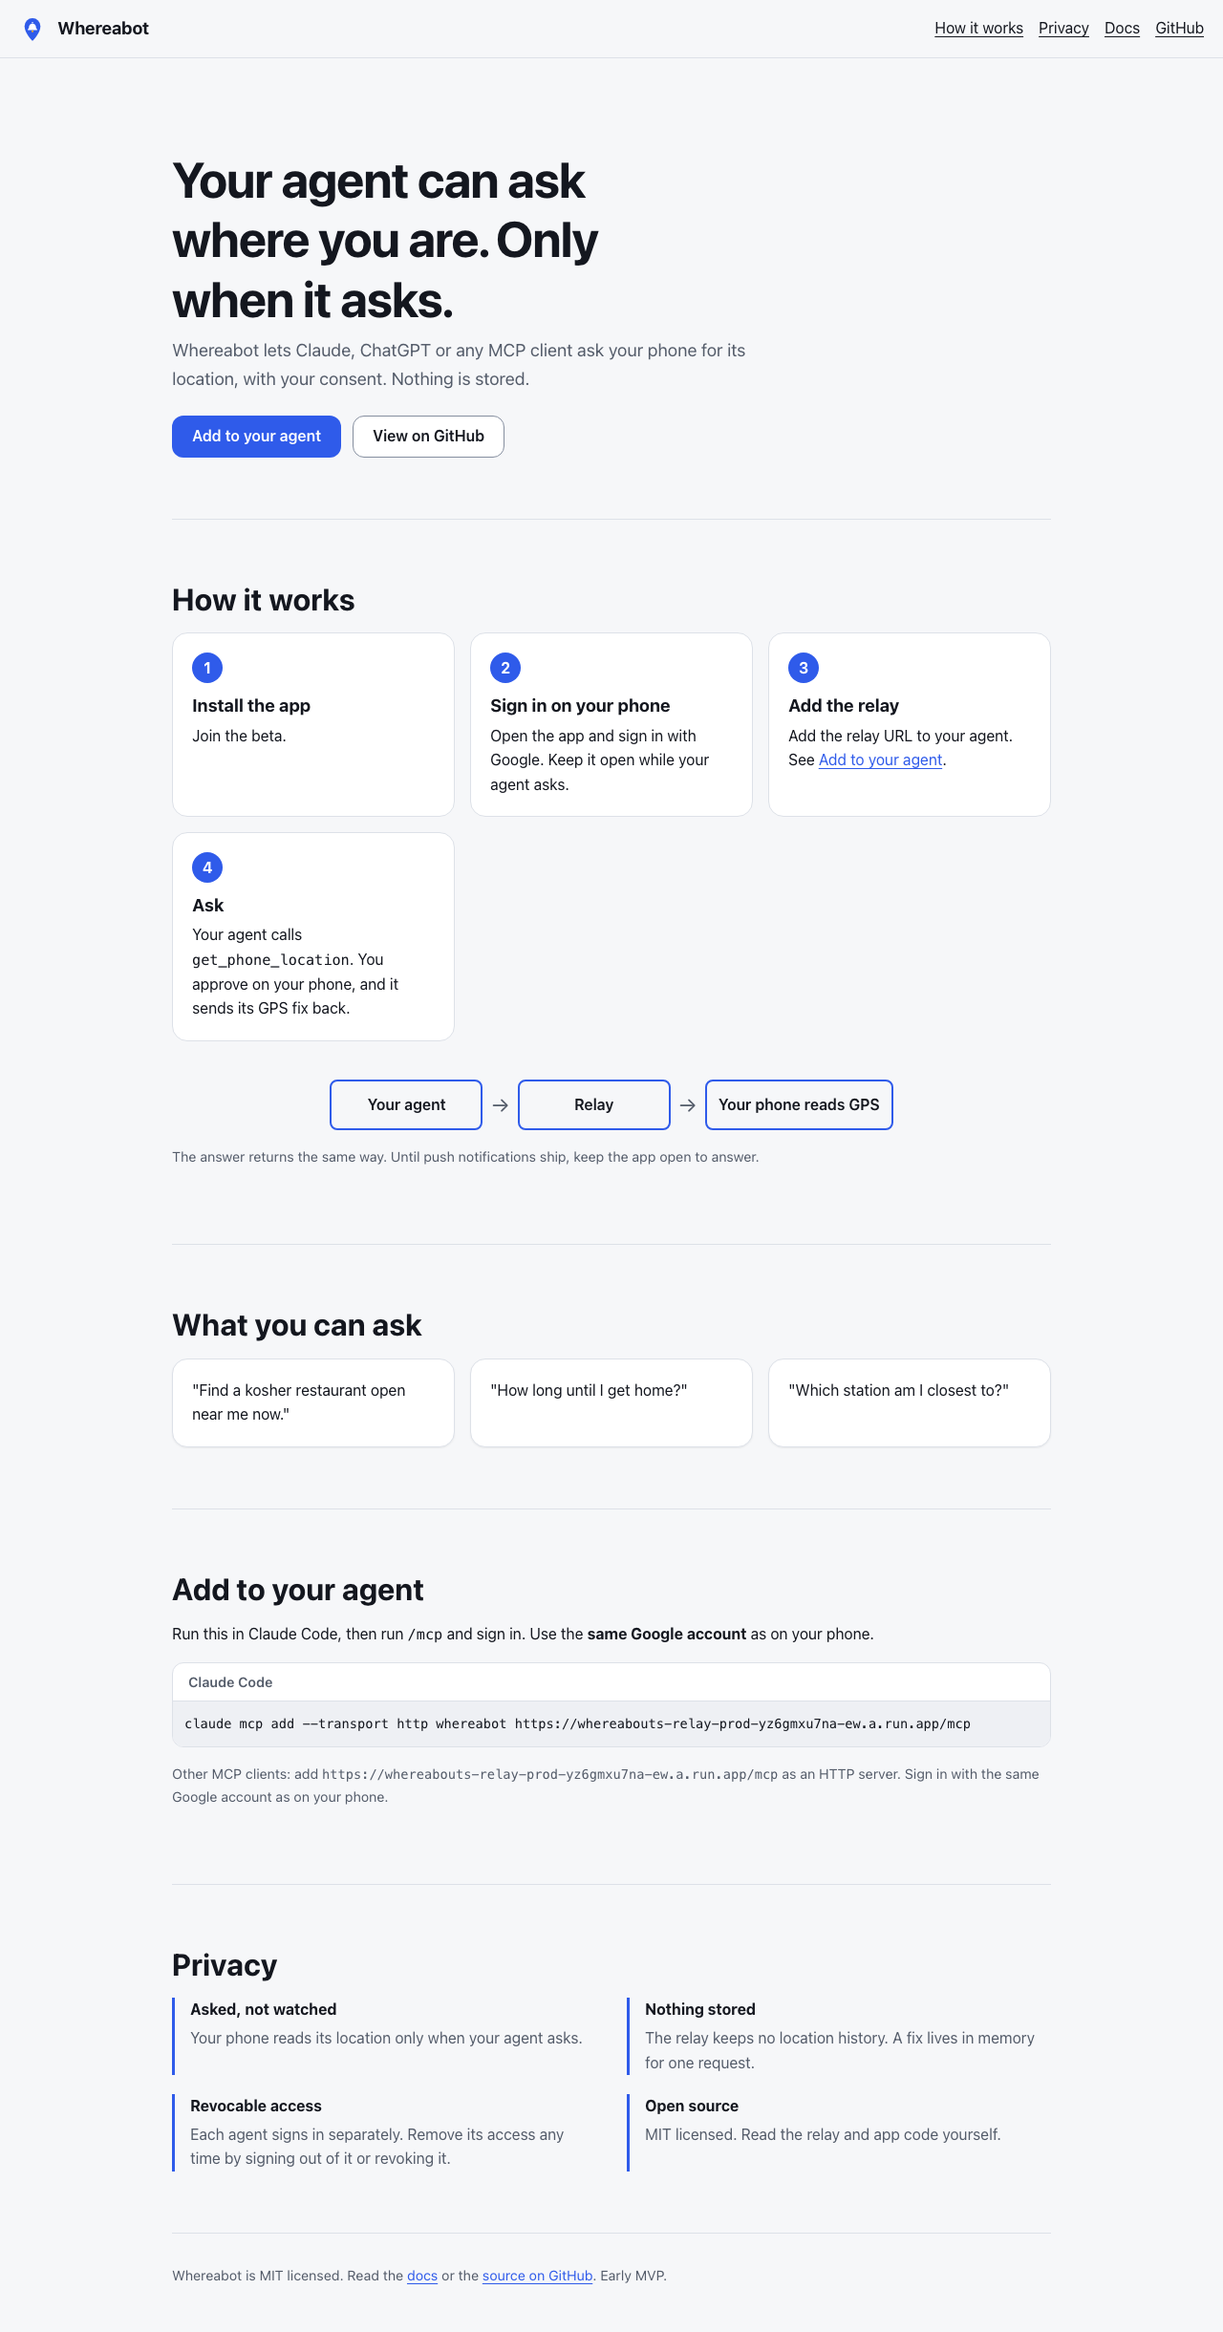
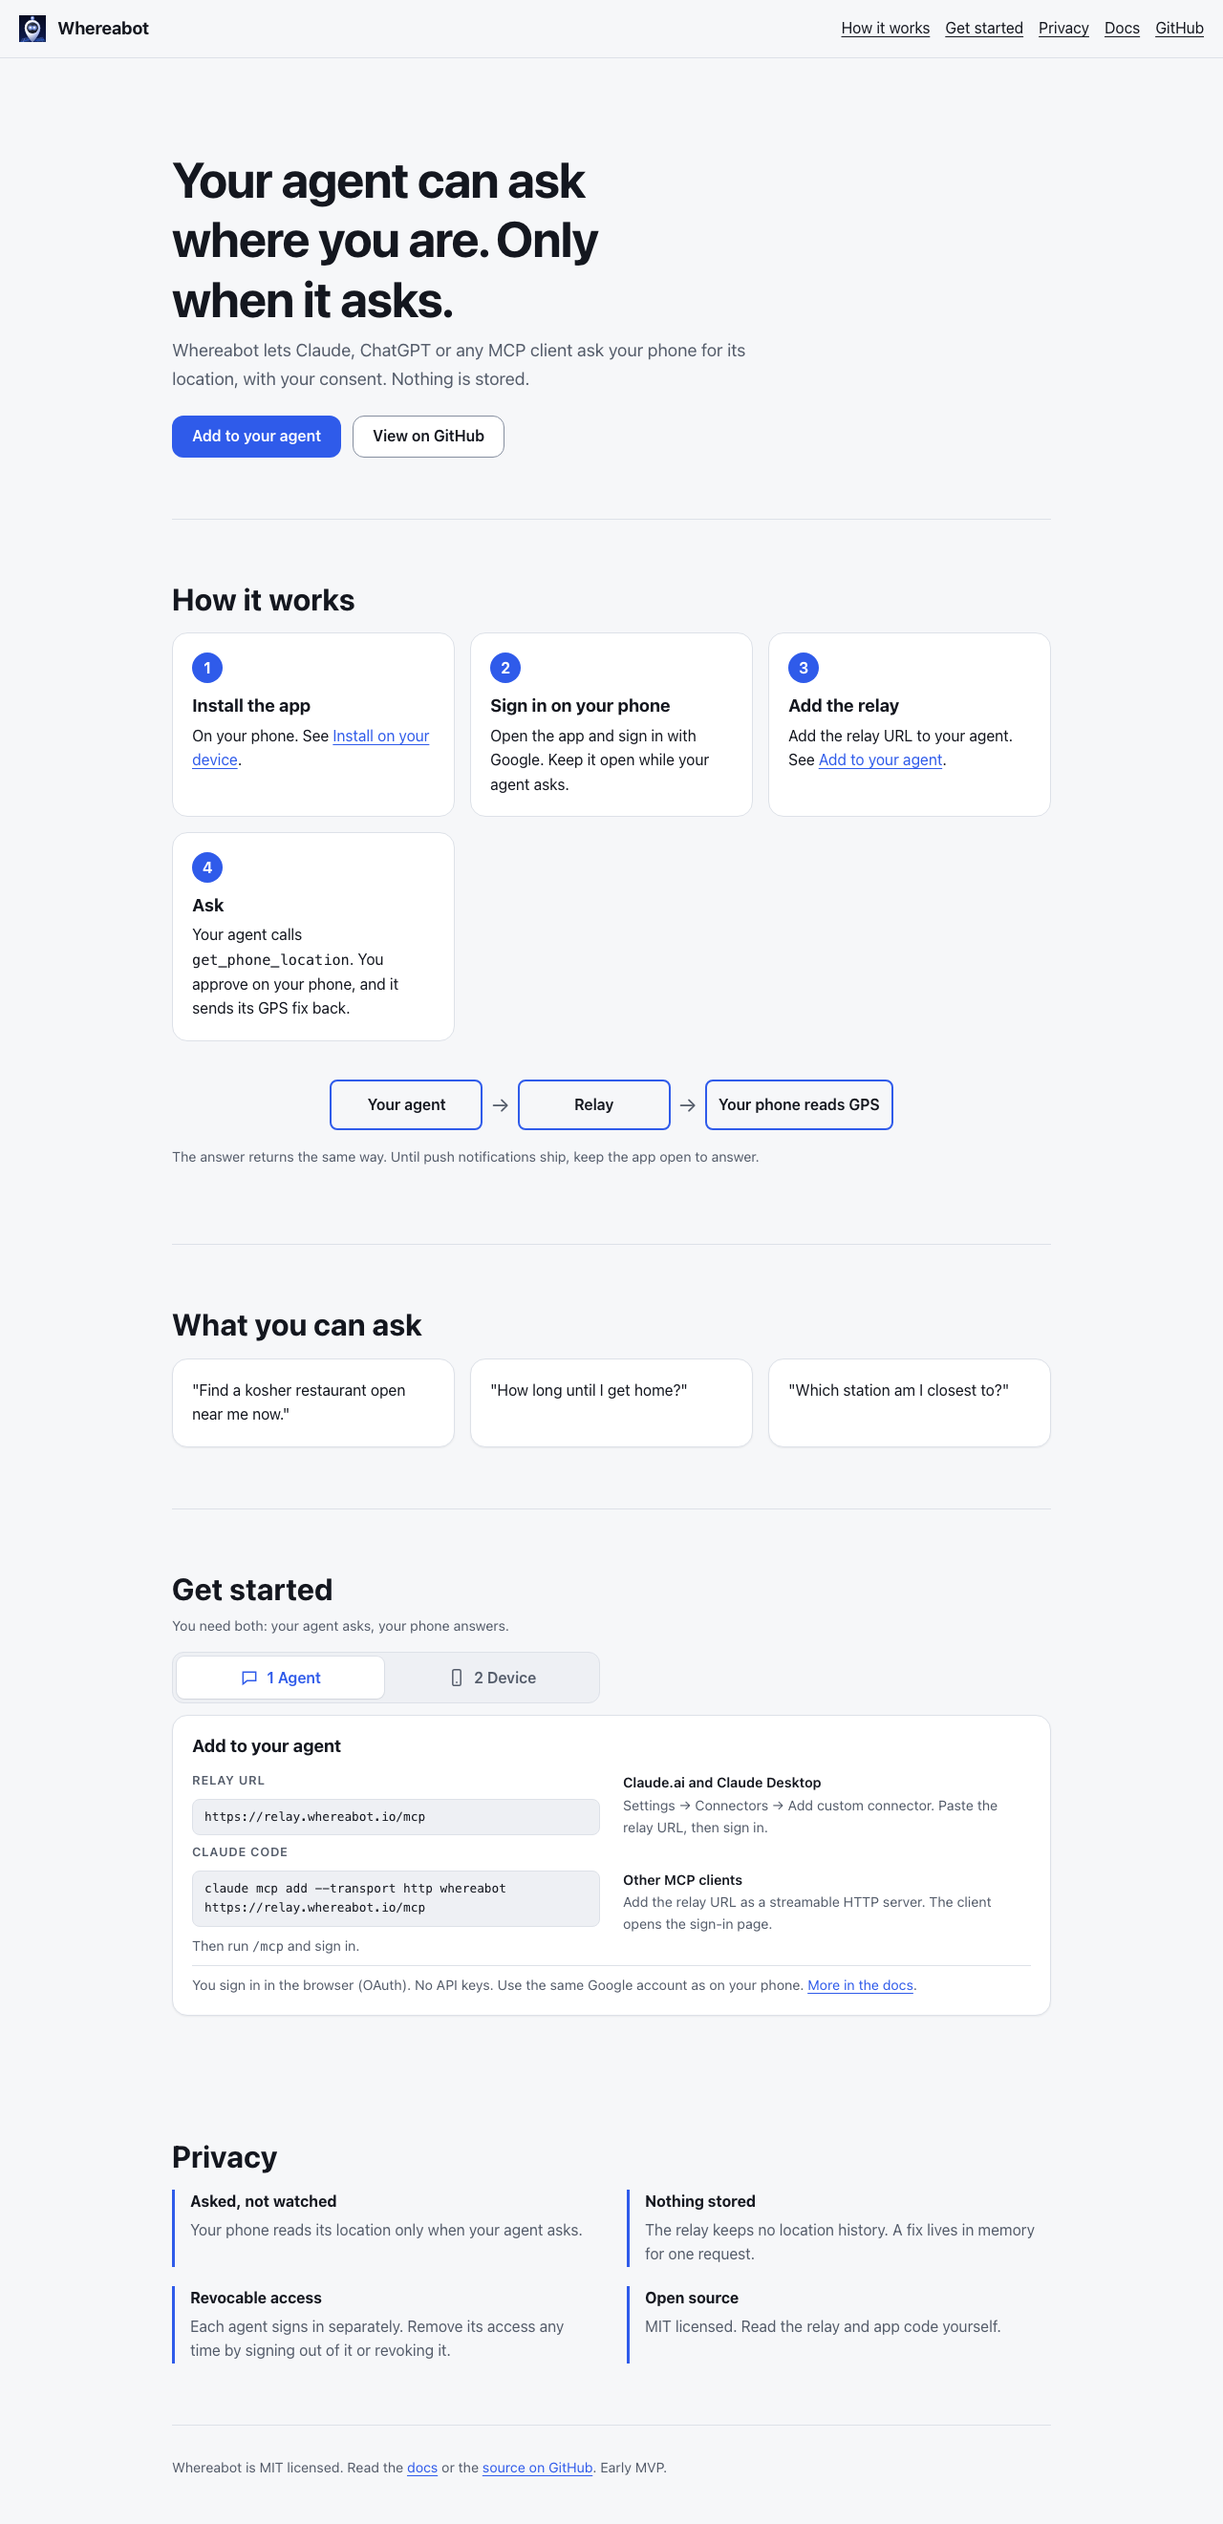
feat(site): Get started as Agent | Device tabs with device auto-detect
Default tab follows the device (phone -> Device, computer -> Agent). The
Device tab shows only this device's install path; Other devices reveals
the rest. Accessible tabs with arrow keys; no-JS shows both panels.
Smoke test covers default tab per UA, keyboard, and one-screen fit.

diff --git a/site/index.html b/site/index.html
@@ -19,6 +19,8 @@
   <link rel="stylesheet" href="css/landing-page.css">
   <script type="module" src="js/copy-buttons.js"></script>
   <script type="module" src="js/landing-install-help.js"></script>
+  <script type="module" src="js/get-started-tabs.js"></script>
+  <script type="module" src="js/device-path-filter.js"></script>
 </head>
 <body>
 <a class="skip-link" href="#main">Skip to content</a>
@@ -62,27 +64,25 @@
   <section id="start" aria-labelledby="start-title">
     <h2 id="start-title">Get started</h2>
     <p class="lede">You need both: your agent asks, your phone answers.</p>
-    <div class="split">
-      <div class="card" id="agent">
-        <h3>1. Add to your agent</h3>
-        <p>Relay URL:</p><code class="code-block" data-copy>https://relay.whereabot.io/mcp</code>
-        <dl class="client-steps">
-          <div><dt>Claude Code</dt><dd><code class="code-block" data-copy>claude mcp add --transport http whereabot https://relay.whereabot.io/mcp</code>Then run <code>/mcp</code> and sign in.</dd></div>
-          <div><dt>Claude.ai and Claude Desktop</dt><dd>Settings → Connectors → Add custom connector. Paste the relay URL, then sign in.</dd></div>
-          <div><dt>Other MCP clients</dt><dd>Add the relay URL as a streamable HTTP server. The client opens the sign-in page.</dd></div>
-        </dl>
-        <p class="note">You sign in in the browser (OAuth). No API keys. Use the same Google account as on your phone. <a href="docs/getting-started">More in the docs</a>.</p>
+    <div class="tabs" role="tablist" aria-label="Get started" hidden>
+      <button type="button" role="tab" id="tab-agent" aria-controls="agent"><svg viewBox="0 0 24 24" aria-hidden="true"><path d="M4 5h16v11H9l-5 4z"/></svg>1 Agent</button>
+      <button type="button" role="tab" id="tab-device" aria-controls="get-app"><svg viewBox="0 0 24 24" aria-hidden="true"><rect x="7" y="2" width="10" height="20" rx="2"/><path d="M11 18h2"/></svg>2 Device</button></div>
+    <div class="tab-panels"><div class="card" id="agent"><h3>Add to your agent</h3>
+        <div class="panel-cols"><div><p class="card-label">Relay URL</p><div class="copy-row"><code class="code-block" data-copy>https://relay.whereabot.io/mcp</code></div>
+          <p class="card-label">Claude Code</p><div class="copy-row"><code class="code-block" data-copy>claude mcp add --transport http whereabot https://relay.whereabot.io/mcp</code></div><p class="note">Then run <code>/mcp</code> and sign in.</p></div>
+          <dl class="client-steps"><div><dt>Claude.ai and Claude Desktop</dt><dd>Settings → Connectors → Add custom connector. Paste the relay URL, then sign in.</dd></div>
+            <div><dt>Other MCP clients</dt><dd>Add the relay URL as a streamable HTTP server. The client opens the sign-in page.</dd></div></dl></div>
+        <p class="note panel-foot">You sign in in the browser (OAuth). No API keys. Use the same Google account as on your phone. <a href="docs/getting-started">More in the docs</a>.</p>
       </div>
-      <div class="card" id="get-app">
-        <h3>2. Install on your device</h3>
-        <ul class="install-options">
-          <li><strong>App Store (iPhone)</strong> <span class="badge is-accent">Recommended</span><br>Answers in the background. In beta. <!-- TODO(user): link the public TestFlight / App Store listing when it exists. --></li>
-          <li><strong>Google Play</strong> <span class="badge">Coming soon</span></li>
-          <li><strong>Use in your browser</strong><br>Answers after you tap the notification. <a class="btn btn-primary" href="app/">Open the browser app</a></li>
-        </ul>
-        <div id="install-help"></div><p class="note"><a href="docs/install-from-browser">Install from the browser</a>: steps and limits.</p>
-      </div>
-    </div>
+      <div class="card" id="get-app"><h3>Install on your device</h3>
+        <div class="panel-cols"><ul class="install-options">
+          <li data-platform="ios"><strong>App Store (iPhone)</strong> <span class="badge is-accent">Recommended</span><br>Answers in the background. In beta. <!-- TODO(user): link the public TestFlight / App Store listing when it exists. --></li>
+          <li data-platform="android"><strong>Google Play</strong> <span class="badge">Coming soon</span></li>
+          <li data-platform="desktop">On your phone, open <strong>whereabot.io/app</strong> in the browser.</li>
+          <li data-platform="ios android desktop"><strong>Use in your browser</strong><br>Answers after you tap the notification. <a class="btn btn-primary btn-small" href="app/">Open the browser app</a></li>
+        </ul><div><details><summary>How to install from the browser</summary><div id="install-help"></div>
+          <p class="note"><a href="docs/install-from-browser">Install from the browser</a>: steps and limits.</p></details><button type="button" class="btn btn-link other-devices" aria-expanded="false" hidden>Other devices</button></div></div>
+      </div></div>
   </section>
   <section id="privacy" aria-labelledby="privacy-title">
     <h2 id="privacy-title">Privacy</h2>

diff --git a/site/css/get-started-tabs.css b/site/css/get-started-tabs.css
@@ -1,0 +1,72 @@
+/* Get started: "Agent | Device" tabs (js/get-started-tabs.js). The section fits one screen in each tab.
+   Without JS the tab list stays hidden and both panels show side by side (stacked on phones). */
+#start { border-bottom: 0; }
+#start h2 { margin-bottom: var(--space-2); }
+#start .lede { margin-bottom: var(--space-4); }
+#start .card p { margin-bottom: 0; }
+
+.tabs {
+  display: grid;
+  grid-template-columns: 1fr 1fr;
+  gap: var(--space-1);
+  max-width: 28rem;
+  margin-bottom: var(--space-3);
+  padding: var(--space-1);
+  border: var(--border-thin) solid var(--color-border);
+  border-radius: var(--radius-md);
+  background: var(--color-surface-sunken);
+}
+.tabs [role="tab"] {
+  display: flex;
+  align-items: center;
+  justify-content: center;
+  gap: var(--space-2);
+  min-height: var(--size-touch);
+  border: 0;
+  border-radius: var(--radius-sm);
+  background: transparent;
+  color: var(--color-text-muted);
+  font: inherit;
+  font-weight: var(--weight-semibold);
+  cursor: pointer;
+}
+.tabs svg {
+  width: var(--size-icon);
+  height: var(--size-icon);
+  fill: none;
+  stroke: currentColor;
+  stroke-width: 1.8;
+}
+.tabs [aria-selected="true"] {
+  background: var(--color-surface);
+  color: var(--color-accent-text);
+  box-shadow: var(--shadow-raised), 0 0 0 var(--border-thin) var(--color-border);
+}
+
+.tab-panels {
+  display: grid;
+  grid-template-columns: repeat(auto-fit, minmax(min(100%, 22rem), 1fr));
+  gap: var(--space-4);
+}
+.tab-panels > [role="tabpanel"] { grid-column: 1 / -1; }
+.panel-cols {
+  display: grid;
+  grid-template-columns: repeat(auto-fit, minmax(min(100%, 22rem), 1fr));
+  gap: var(--space-3) var(--space-6);
+}
+.panel-cols > div { display: flex; flex-direction: column; gap: var(--space-2); }
+.panel-foot { padding-top: var(--space-2); border-top: var(--border-thin) solid var(--color-border); }
+
+.client-steps { display: grid; gap: var(--space-2); margin: 0; font-size: var(--text-sm); }
+.client-steps dt { font-weight: var(--weight-semibold); }
+.client-steps dd { margin: 0; color: var(--color-text-muted); }
+
+/* Copy button (js/copy-buttons.js) beside its command; small mono text so commands wrap less. */
+.copy-row { display: flex; align-items: center; gap: var(--space-2); }
+.copy-row .code-block { flex: 1; min-width: 0; padding: var(--space-2) var(--space-3); font-size: var(--text-xs); }
+.copy-row .copy-button { flex: none; padding-inline: var(--space-3); }
+
+@media (max-width: 49.99rem) {
+  #start { padding-block: var(--space-8); }
+  #start .card { padding: var(--space-4); }
+}

diff --git a/site/js/get-started-tabs.js b/site/js/get-started-tabs.js
@@ -1,0 +1,41 @@
+// Get started: "Agent | Device" tabs. The default tab follows the device: phones see Device, computers see Agent.
+// Without JS the tab list stays hidden and both panels show.
+import { phoneLike } from "./device-platform.js";
+
+const list = document.querySelector('#start [role="tablist"]');
+const tabs = [...(list?.querySelectorAll('[role="tab"]') ?? [])];
+const panelOf = (tab) => document.getElementById(tab.getAttribute("aria-controls"));
+
+function select(tab, focus = false) {
+  for (const t of tabs) {
+    const on = t === tab;
+    t.setAttribute("aria-selected", String(on));
+    t.tabIndex = on ? 0 : -1;
+    panelOf(t).hidden = !on;
+  }
+  if (focus) tab.focus();
+}
+
+if (tabs.length) {
+  for (const [i, tab] of tabs.entries()) {
+    const panel = panelOf(tab);
+    panel.setAttribute("role", "tabpanel");
+    panel.setAttribute("aria-labelledby", tab.id);
+    panel.tabIndex = 0;
+    tab.addEventListener("click", () => select(tab));
+    tab.addEventListener("keydown", (event) => {
+      const next = { ArrowRight: i + 1, ArrowLeft: i - 1, Home: 0, End: tabs.length - 1 }[event.key];
+      if (next === undefined) return;
+      event.preventDefault();
+      select(tabs[(next + tabs.length) % tabs.length], true);
+    });
+  }
+  // In-page links (#agent, #get-app) open their tab first; the browser then scrolls to it.
+  const tabFor = (hash) => tabs.find((t) => `#${t.getAttribute("aria-controls")}` === hash);
+  document.addEventListener("click", (event) => {
+    const tab = tabFor(event.target.closest?.('a[href^="#"]')?.hash);
+    if (tab) select(tab);
+  });
+  select(tabFor(location.hash) ?? tabs[phoneLike ? 1 : 0]);
+  list.hidden = false;
+}

diff --git a/site/js/landing-install-help.js b/site/js/landing-install-help.js
@@ -1,9 +1,6 @@
 // Landing: install steps for the browser app (/app/) that match this device.
 // Inside /app/ the same help comes from app/src/ui/pwa-limits-notice.ts.
-const ua = navigator.userAgent;
-// iPadOS 13+ reports a Mac user agent; touch points tell it apart.
-const ios = /iPhone|iPad|iPod/.test(ua) || (/Macintosh/.test(ua) && navigator.maxTouchPoints > 1);
-const iosSafari = ios && !/CriOS|FxiOS|EdgiOS|OPiOS|GSA\//.test(ua);
+import { android, ios, iosSafari } from "./device-platform.js";
 
 const SHARE_ICON = '<svg viewBox="0 0 24 24" fill="none" stroke="currentColor" stroke-width="2" aria-hidden="true"><path d="M12 15V3m0 0L8 7m4-4 4 4M6 11H5v10h14V11h-1"/></svg>';
 const ADD_ICON = '<svg viewBox="0 0 24 24" fill="none" stroke="currentColor" stroke-width="2" aria-hidden="true"><rect x="4" y="4" width="16" height="16" rx="3"/><path d="M12 8v8m-4-4h8"/></svg>';
@@ -30,6 +27,15 @@ function help() {
   }
   if (ios) {
     return banner("Open in Safari to install", "<p>Open <strong>whereabot.io/app</strong> in Safari, then tap Share and Add to Home Screen.</p>");
+  }
+  if (android) {
+    return banner(
+      "Install on Android",
+      `<ol class="install-steps">
+        <li>Open <a href="app/">whereabot.io/app</a> in Chrome.</li>
+        <li>Tap Install Whereabot, or open the browser menu and tap Install app.</li>
+      </ol>`,
+    );
   }
   return banner(
     "Install Whereabot",

diff --git a/site/css/install-help.css b/site/css/install-help.css
@@ -1,13 +1,33 @@
-/* Device-aware install help (js/landing-install-help.js): steps with inline Share / Add icons. */
-#install-help:not(:empty) {
-  margin: var(--space-4) 0;
+/* Install on your device: install paths (js/device-path-filter.js) and browser install steps
+   (js/landing-install-help.js) behind a tap. */
+.install-options {
+  display: grid;
+  align-content: start;
+  gap: var(--space-2);
+  margin: 0;
+  padding: 0;
+  list-style: none;
 }
-.install-steps li {
-  margin-bottom: var(--space-1);
+.install-options .btn { margin-top: var(--space-2); }
+
+#get-app summary {
+  min-height: var(--size-touch);
+  display: flex;
+  align-items: center;
+  color: var(--color-accent-text);
+  font-weight: var(--weight-semibold);
+  list-style: none;
+  cursor: pointer;
 }
+#get-app summary::after { content: "\25BE"; margin-left: var(--space-2); }
+#get-app details[open] summary::after { content: "\25B4"; }
+#install-help:not(:empty) { margin-bottom: var(--space-2); }
+.install-steps { margin: 0; }
+.install-steps li { margin-bottom: var(--space-1); }
 .install-steps svg {
   width: 1.25em;
   height: 1.25em;
   vertical-align: -0.25em;
   color: var(--color-accent);
 }
+.other-devices { align-self: flex-start; padding-inline: 0; }

diff --git a/site/js/device-path-filter.js b/site/js/device-path-filter.js
@@ -1,0 +1,20 @@
+// Install on your device: show only this device's install path first; "Other devices" reveals the rest.
+// Without JS every path shows.
+import { platform } from "./device-platform.js";
+
+const panel = document.getElementById("get-app");
+const items = [...(panel?.querySelectorAll("[data-platform]") ?? [])];
+const mine = (item) => item.dataset.platform.split(" ").includes(platform);
+// The computer-only hint ("On your phone, open ...") means nothing on a phone, so it stays hidden there.
+const others = items.filter((item) => !mine(item) && item.dataset.platform !== "desktop");
+const button = panel?.querySelector(".other-devices");
+
+if (button) {
+  for (const item of items) item.hidden = !mine(item);
+  button.hidden = false;
+  button.addEventListener("click", () => {
+    const open = button.getAttribute("aria-expanded") !== "true";
+    for (const item of others) item.hidden = !open;
+    button.setAttribute("aria-expanded", String(open));
+  });
+}

diff --git a/site/js/device-platform.js b/site/js/device-platform.js
@@ -1,0 +1,10 @@
+// Which device the visitor is on, from the user agent. Shared by the Get started tabs and install help.
+const ua = navigator.userAgent;
+// iPadOS 13+ reports a Mac user agent; touch points tell it apart.
+export const ios = /iPhone|iPad|iPod/.test(ua) || (/Macintosh/.test(ua) && navigator.maxTouchPoints > 1);
+export const iosSafari = ios && !/CriOS|FxiOS|EdgiOS|OPiOS|GSA\//.test(ua);
+export const android = /Android/.test(ua);
+/** "ios", "android" or "desktop": picks the install path to show first. */
+export const platform = ios ? "ios" : android ? "android" : "desktop";
+// A touch screen at phone width counts as a phone even when the user agent says otherwise.
+export const phoneLike = ios || android || (navigator.maxTouchPoints > 0 && matchMedia("(max-width: 50rem)").matches);

diff --git a/site/css/landing-page.css b/site/css/landing-page.css
@@ -3,6 +3,6 @@
 @import url("site-header.css");
 @import url("landing-sections.css");
 @import url("request-flow-diagram.css");
-@import url("get-started-split.css");
+@import url("get-started-tabs.css");
 @import url("install-help.css");
 @import url("privacy-points.css");

diff --git a/docs/screens/README.md b/docs/screens/README.md
@@ -54,6 +54,6 @@ Layout audit across widths, dark mode and large text: `node scripts/screens/audi
 | [gallery-mobile-light.png](gallery-mobile-light.png) | Component gallery at 390 px, light: every shared component and state. |
 | [gallery-narrow-dark.png](gallery-narrow-dark.png) | Component gallery at 320 px, dark: every shared component and state. |
 | [gallery-narrow-light.png](gallery-narrow-light.png) | Component gallery at 320 px, light: every shared component and state. |
-| [site-landing-desktop.png](site-landing-desktop.png) | Landing page at 1280 px: hero, how it works, sample questions, agent setup, privacy. |
-| [site-landing-mobile.png](site-landing-mobile.png) | Landing page at 390 px: hero, how it works, sample questions, agent setup, privacy. |
+| [site-landing-desktop.png](site-landing-desktop.png) | Landing page at 1280 px: hero, how it works, sample questions, get started opened on its Agent tab (computers), privacy. |
+| [site-landing-mobile.png](site-landing-mobile.png) | Landing page at 390 px: hero, how it works, sample questions, get started opened on its Device tab with the iPhone install path (phones), privacy. |
 | [site-landing-skip-link-focus-desktop.png](site-landing-skip-link-focus-desktop.png) | Landing page with keyboard focus on the "Skip to content" link. |
